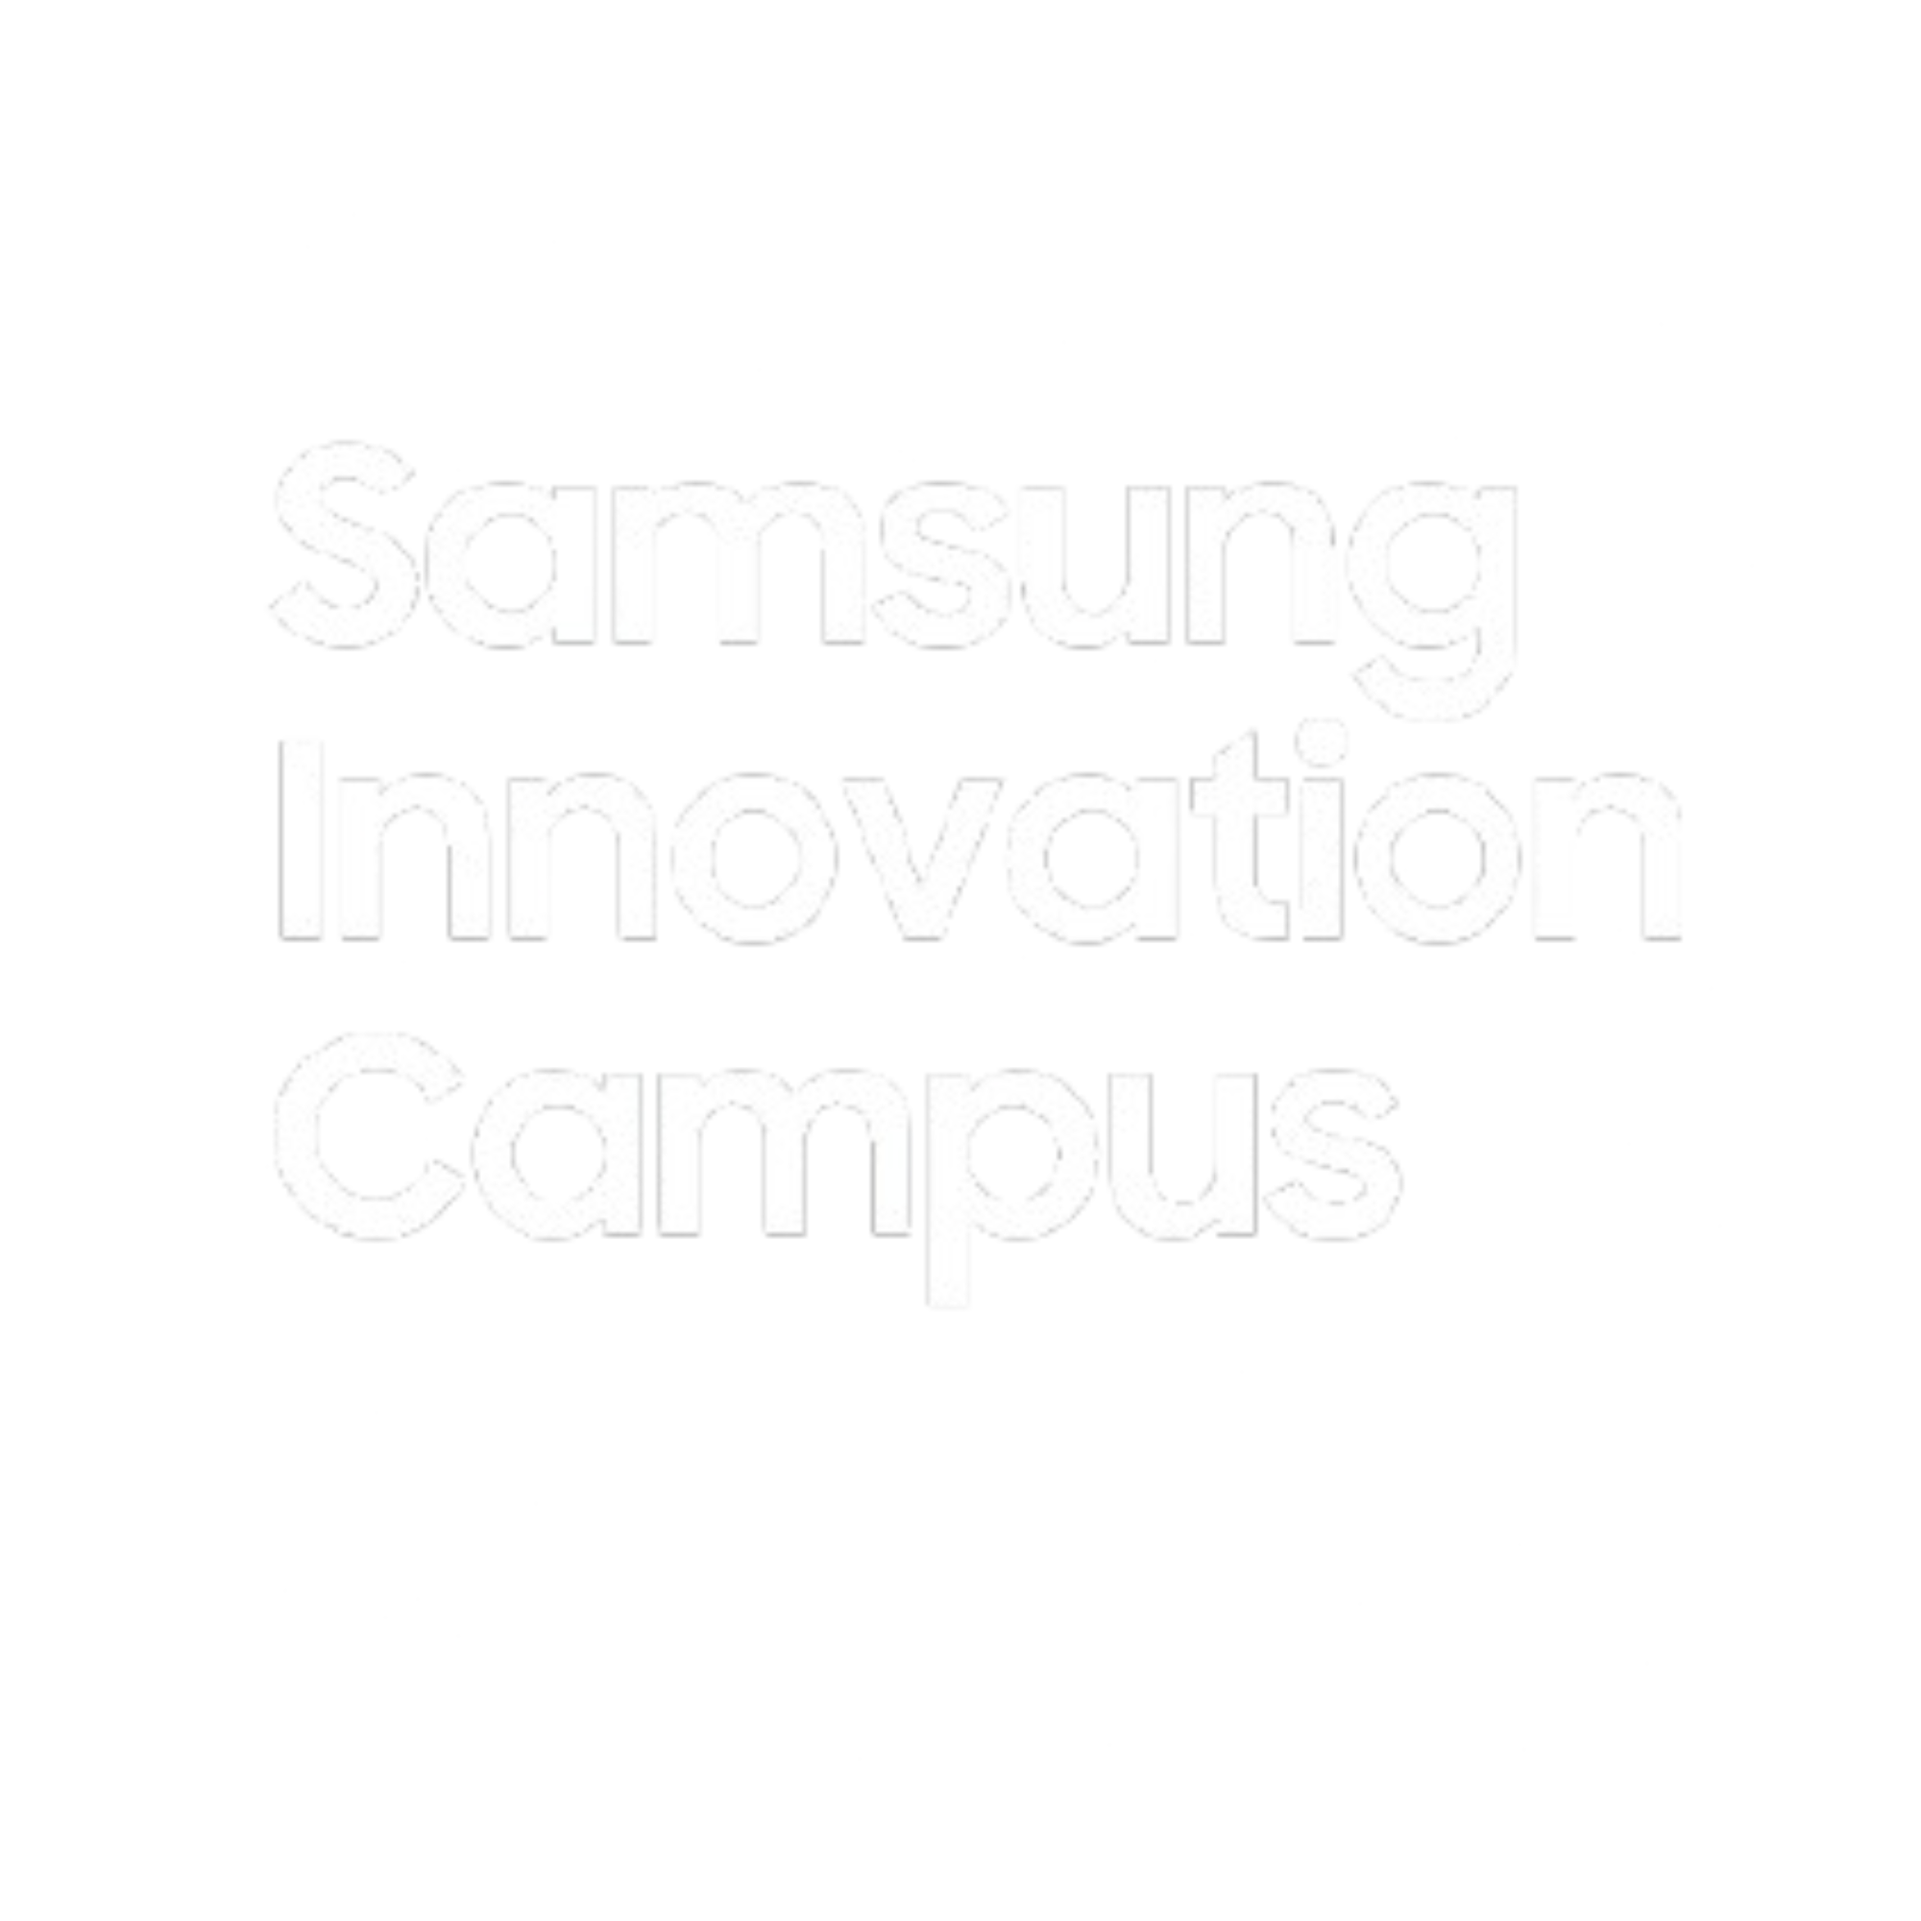
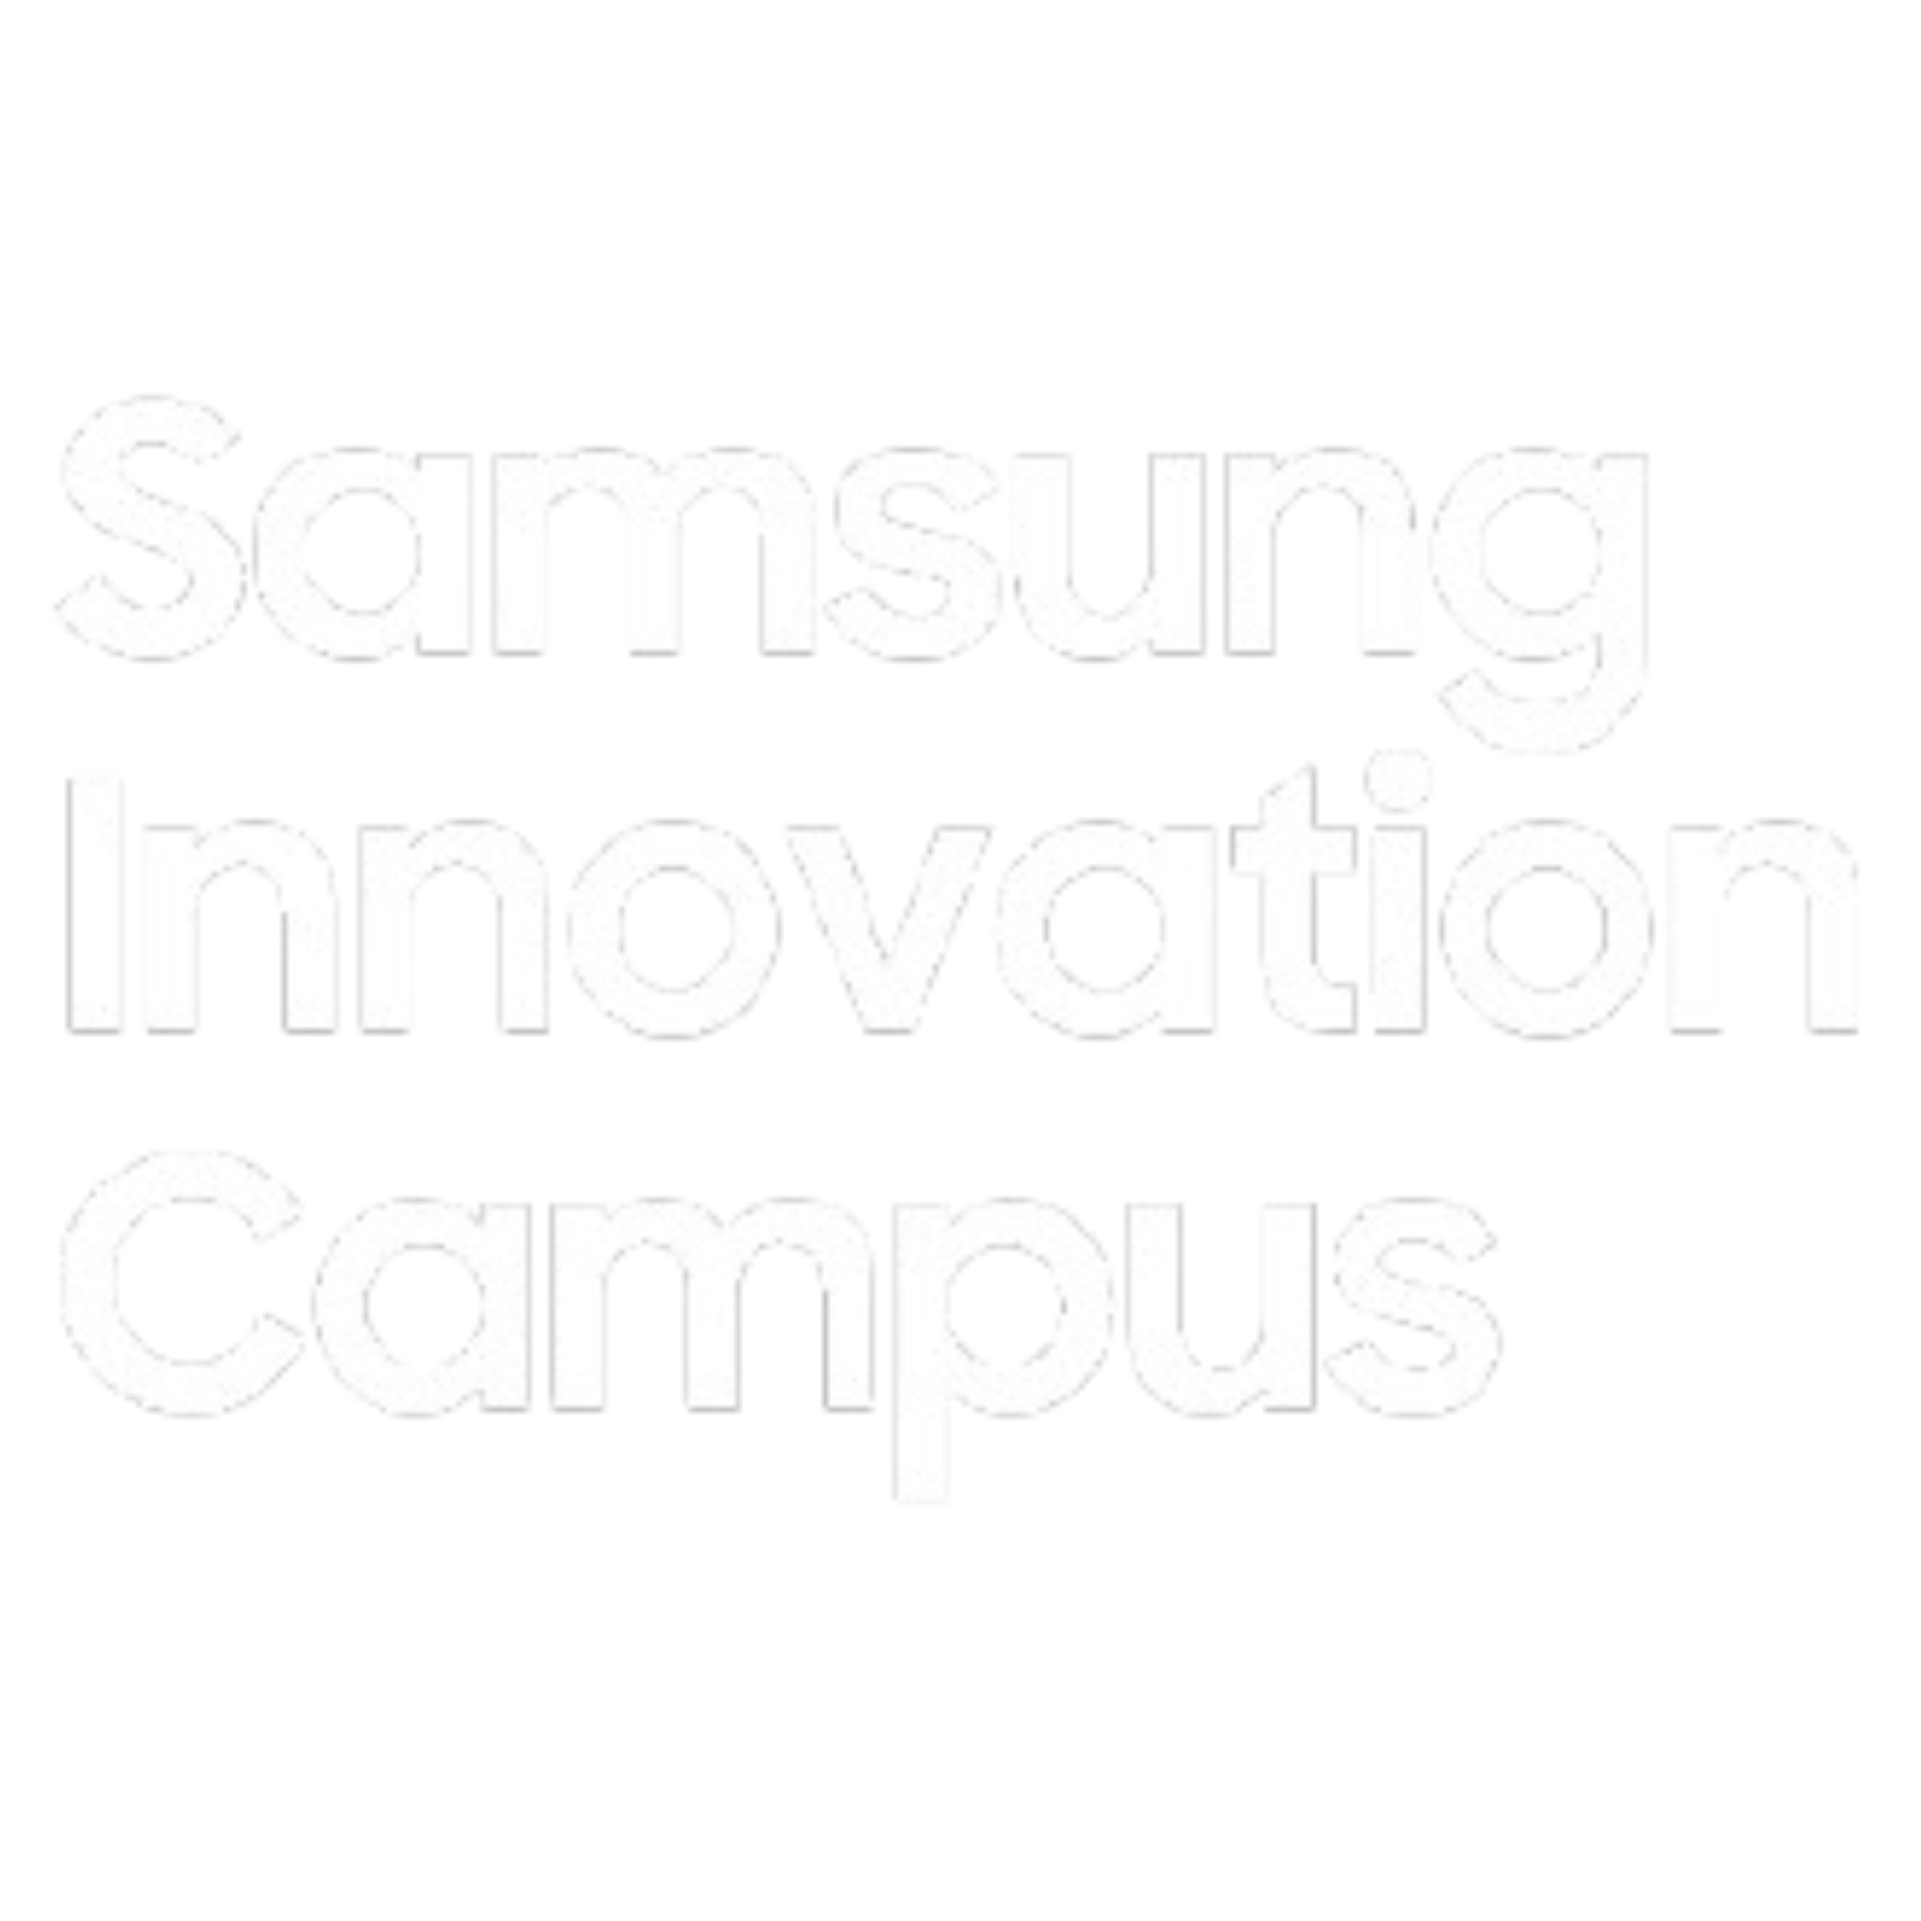
up

diff --git a/README.md b/README.md
@@ -1,6 +1,6 @@
 <br/>
 <div align="center">
-    <img src="img/sic.png" alt="Logo" width="200">
+    <img src="img/sic.png" alt="Logo" width="120">
     <h3 align="center">Assignment SIC6 - Stage 1</h3>
      <p align="center">
         Rangkuman soal dan topologi
